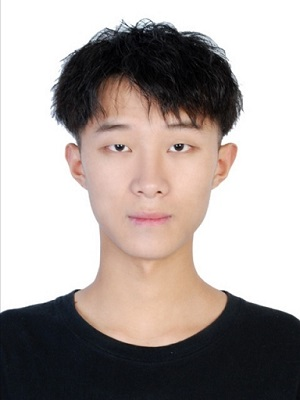
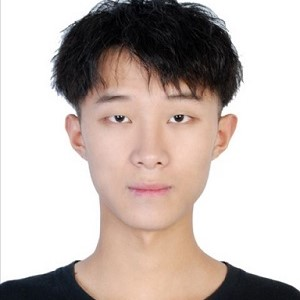
31

diff --git a/contact.html b/contact.html
@@ -14,7 +14,7 @@ header-img: "img/contact-bg.jpg"
        
             <tbody>
                 <tr style="font-size:13px;">
-                    <td><img src="../img/jyn.jpg" width="110" height="210"  style="border-radius:60%; overflow:hidden; align:center;" />
+                    <td><img src="../img/jyn.jpg" width="100" height="200"  style="border-radius:60%; overflow:hidden; align:center;" />
                       <br/>
 					  <p><center><strong>Yanan Jia (贾亚楠)</strong></p>
 					  <p><center><strong>co-supervised with Prof.Longfei Han</strong></p>
